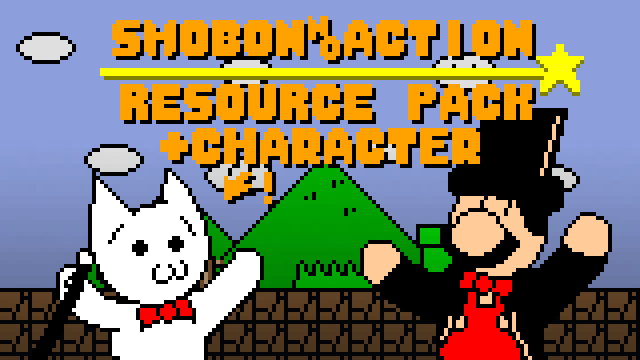
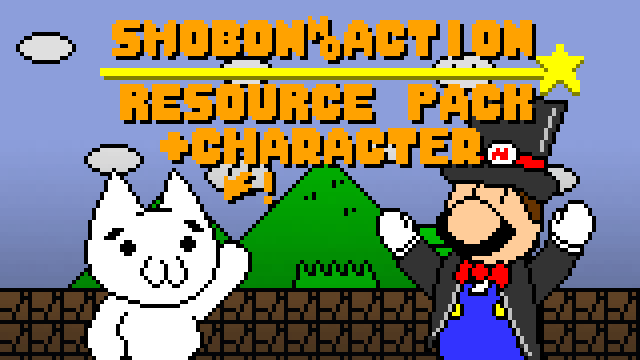
updated that frontpage
yeah

Changed region(s): [[0.5625, 0.275, 0.9688, 1.0], [0.0312, 0.4583, 0.4375, 1.0]]

diff --git a/README.md b/README.md
@@ -1,5 +1,9 @@
 # SMB1R - Shobon No Action Pack
 <img align="center" width="640" height="360" alt="GB Thumbnail" src="Extras/GB Thumbnail.png" />
 
-As yes, the one game with a cat that has a meaning of depression and regret... 
 This pack attempts to remake most of the assets that fits in the style of Chiku's game, Shobon no Action! (aka Syobon No Action, Cat Mario, etc.)
+
+>Credits:
+>* literally doing everything - BetaNCourses
+>* literally doing the rest of everything - JPyi64
+>* Colorblind Mode Extra - KenaiLengendarus Yeh
